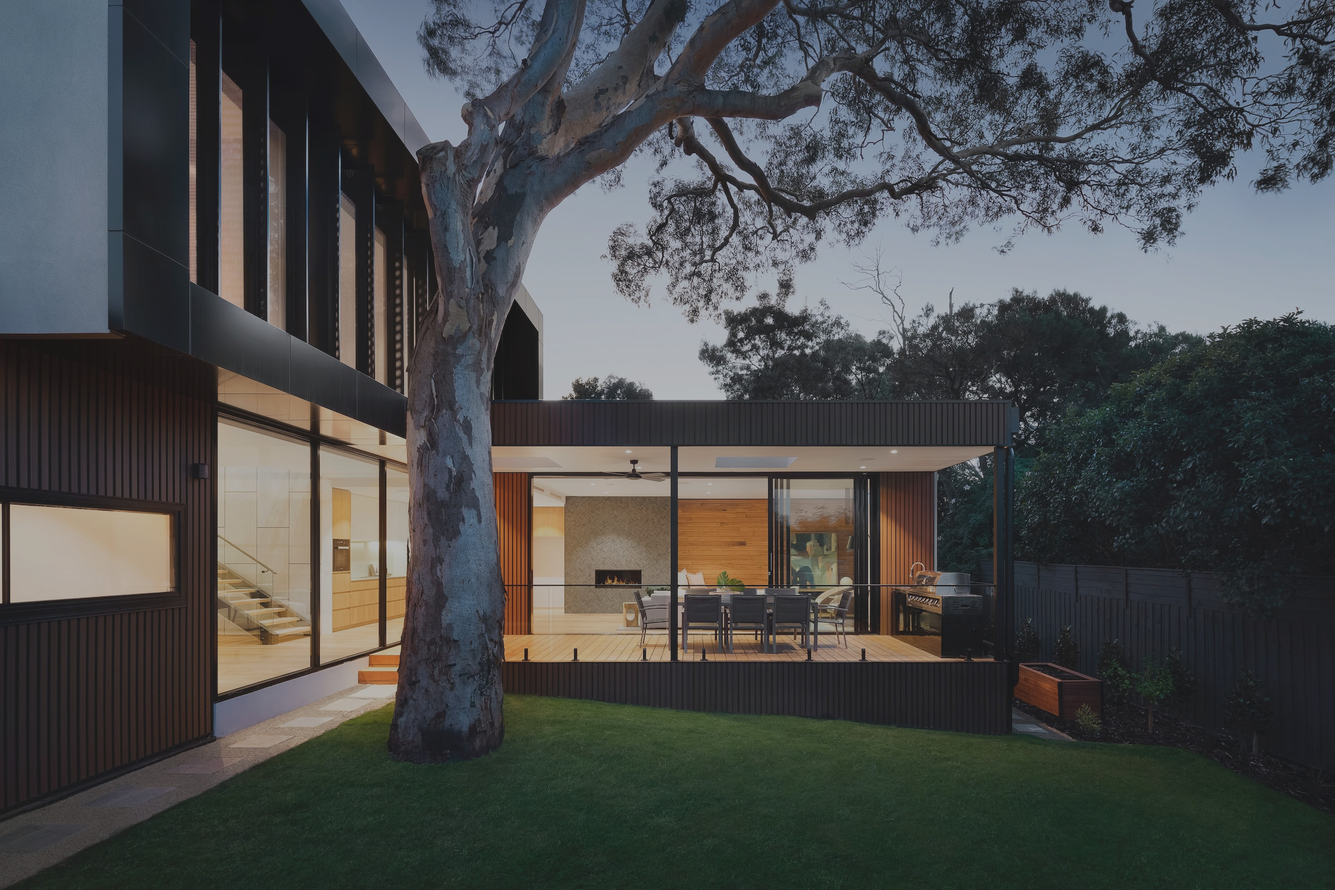
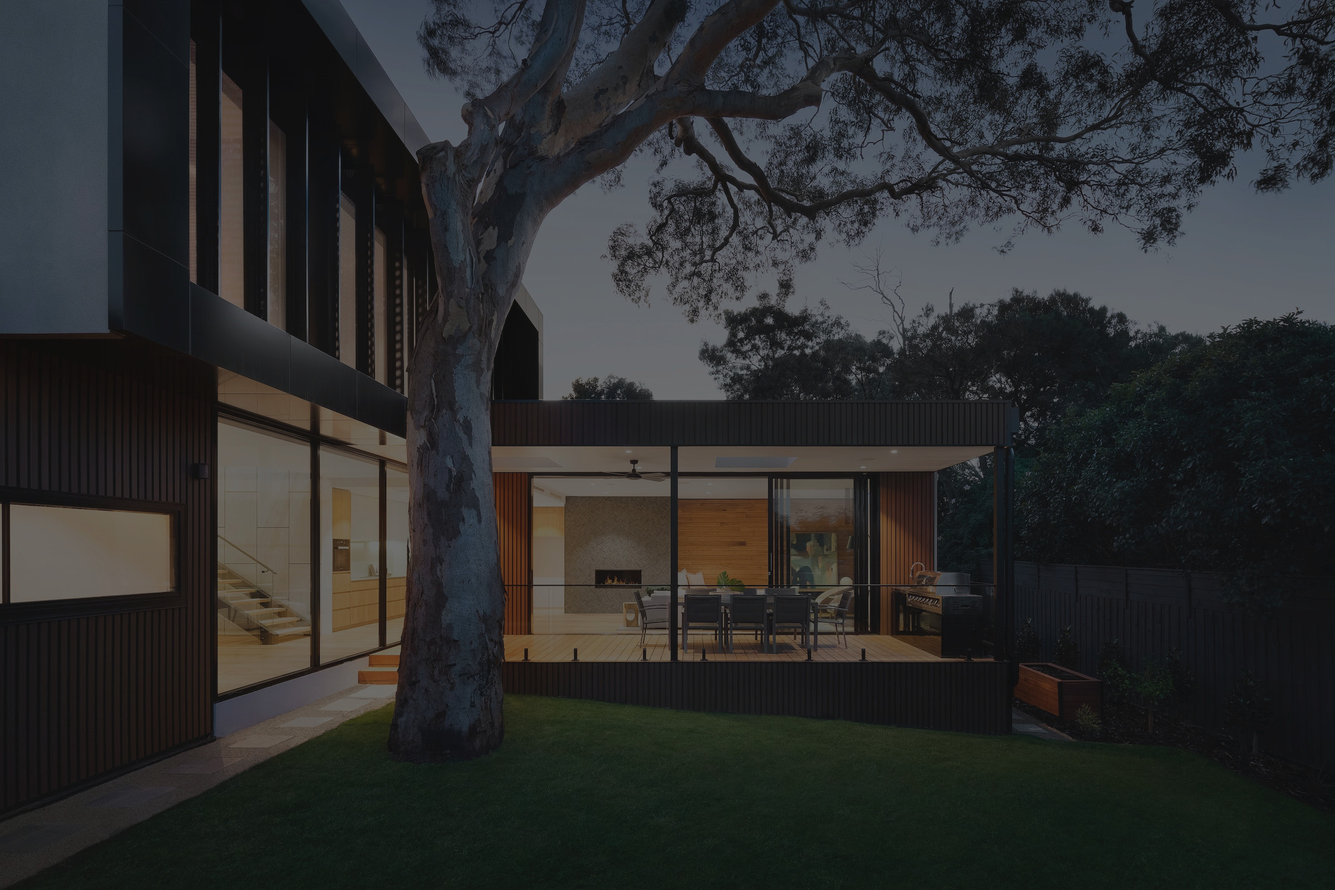
Changed header

diff --git a/frontend/src/Containers/Home/Home.scss b/frontend/src/Containers/Home/Home.scss
@@ -1,3 +1,6 @@
+$text-color: var(--white-color);
+
+
 .home {
   display: flex;
   flex-direction: column;
@@ -6,7 +9,6 @@
     height: 65vh;
     background-position: center;
     background-size: cover;
-
     padding-top: 3rem;
     width: 100%;
 
@@ -14,7 +16,7 @@
       padding-top: 0;
     }
     h1 {
-      color: var(--grey-700);
+      color: var(--white-color);
       font-size: 4rem;
       max-width: 600px;
       font-weight: bolder;
@@ -27,6 +29,10 @@
       }
     }
 
+    .p-text{
+      color: $text-color;
+    }
+
     p {
       max-width: 500px;
       margin-bottom: 1rem;
@@ -37,6 +43,9 @@
       display: flex;
       gap: 30px;
       margin-top: 1rem;
+      h2,p{
+        color: $text-color;
+      }
     }
   }
 

diff --git a/frontend/src/Containers/Home/Home.jsx b/frontend/src/Containers/Home/Home.jsx
@@ -23,7 +23,7 @@ const Home = ({
   return (
     <>
       <div className="app__flex home">
-        <header className="header app__flex" style={{ backgroundImage: `url(${images.header1})` }}>
+        <header className="header app__flex" style={{ backgroundImage: `url(${images.spareHeader})` }}>
           <div className="header__content app__container-width">
             <h1>Discover a place you will love to live. </h1>
             <p className="p-text">
